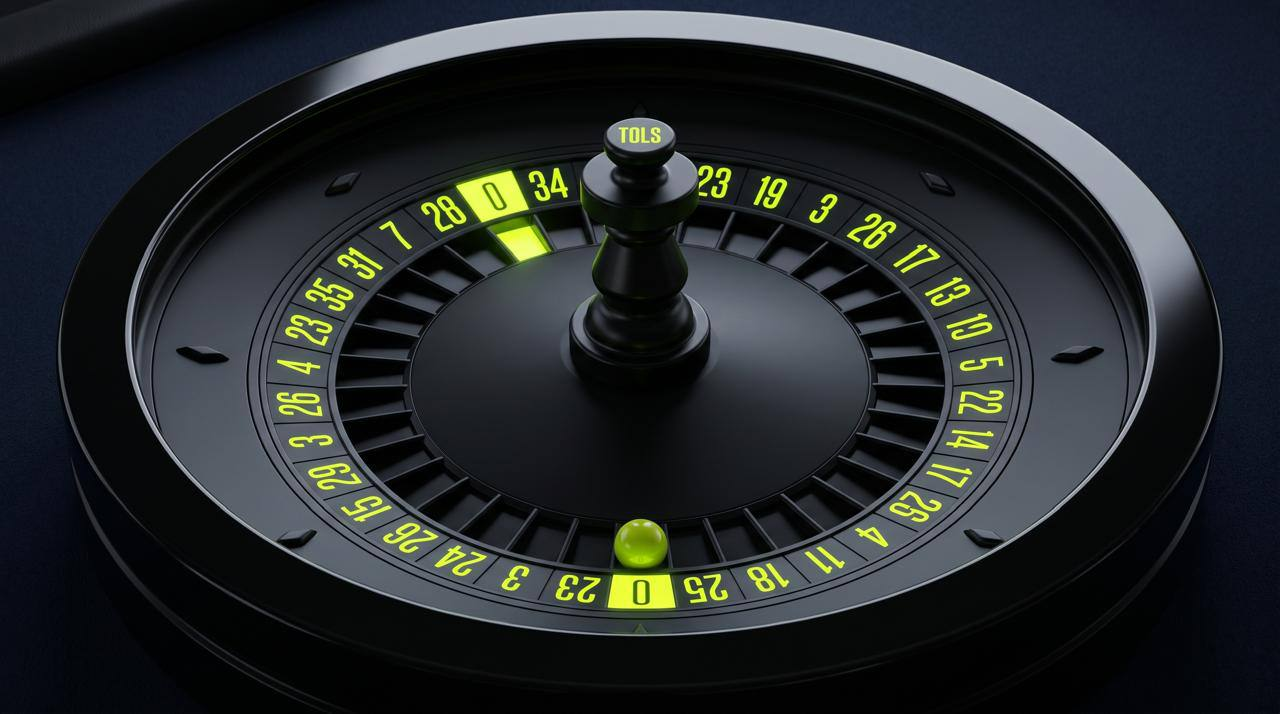
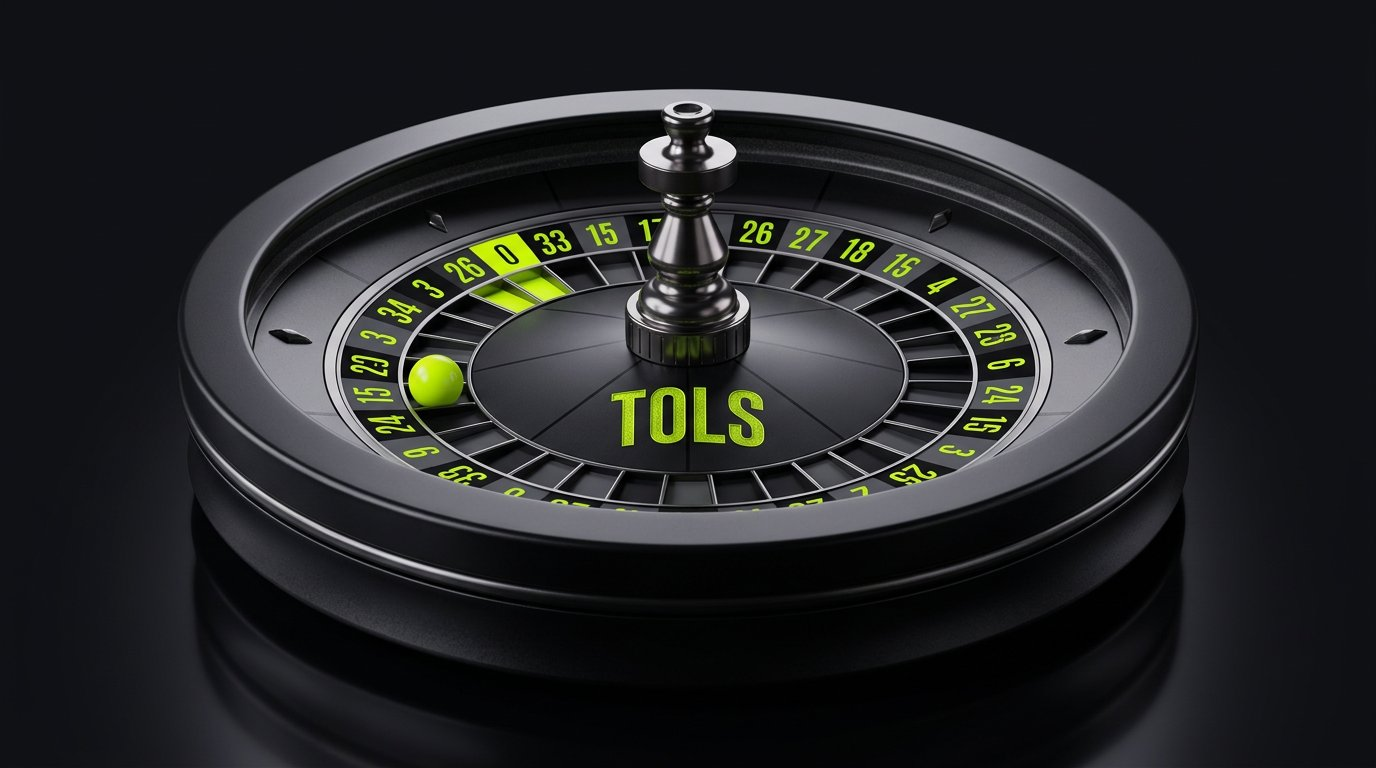
feat(roulette): cinematic tile plus a complete European table
New charcoal/lime TOLS wheel art for the lobby card. In-game: 2:1
columns, Auto Bet follows the chips on the felt, engine accepts both
a bets[] book and a simple color shortcut, hub and ball match the tile.

diff --git a/src/components/casino/game-roulette.tsx b/src/components/casino/game-roulette.tsx
@@ -32,7 +32,7 @@ const WHEEL_ORDER = [
 ];
 
 function numColor(n: number): string {
-  if (n === 0) return '#9bc400';
+  if (n === 0) return '#cdf32b';
   return RED.has(n) ? '#e33b26' : '#141412';
 }
 
@@ -118,6 +118,11 @@ const RouletteWheel = forwardRef<RouletteHandle, unknown>(function RouletteWheel
     ctx.lineWidth = 2;
     ctx.strokeStyle = 'rgba(205,243,43,0.25)';
     ctx.stroke();
+    ctx.fillStyle = '#cdf32b';
+    ctx.font = '800 26px system-ui, sans-serif';
+    ctx.textAlign = 'center';
+    ctx.textBaseline = 'middle';
+    ctx.fillText('TOLS', CX, CY);
 
     // Ball
     const b = ballRef.current;
@@ -126,8 +131,8 @@ const RouletteWheel = forwardRef<RouletteHandle, unknown>(function RouletteWheel
     ctx.beginPath();
     ctx.arc(bx, by, 10, 0, Math.PI * 2);
     const bg = ctx.createRadialGradient(bx - 3, by - 3, 1.5, bx, by, 10);
-    bg.addColorStop(0, '#ffffff');
-    bg.addColorStop(1, '#c8c8c2');
+    bg.addColorStop(0, '#f4ff9a');
+    bg.addColorStop(1, '#cdf32b');
     ctx.fillStyle = bg;
     ctx.shadowColor = 'rgba(0,0,0,0.5)';
     ctx.shadowBlur = 9;
@@ -217,6 +222,11 @@ const DOZENS = [
   { key: 'dozen2', label: '2nd 12', type: 'dozen2' },
   { key: 'dozen3', label: '3rd 12', type: 'dozen3' },
 ];
+const COLUMNS = [
+  { key: 'col3', label: '2:1', type: 'col3' },
+  { key: 'col2', label: '2:1', type: 'col2' },
+  { key: 'col1', label: '2:1', type: 'col1' },
+];
 
 export function RouletteGame({ onBack, initialBalance }: Props) {
   const [chip, setChip] = useState(5);
@@ -226,11 +236,14 @@ export function RouletteGame({ onBack, initialBalance }: Props) {
   const [history, setHistory] = useState<Array<{ winning: number; result: string; payout: number }>>([]);
   const wheelRef = useRef<RouletteHandle | null>(null);
 
-  const totalStaked = Array.from(bets.values()).reduce((s, b) => s + b.amount, 0);
-  const autoColor = Array.from(bets.values()).some((b) => b.type === "black") && !Array.from(bets.values()).some((b) => b.type === "red")
-    ? "black"
-    : "red";
-  const { balance, setBalance } = useOriginalsSession("roulette", { color: autoColor }, totalStaked || chip, initialBalance);
+  const betList = Array.from(bets.values());
+  const totalStaked = betList.reduce((s, b) => s + b.amount, 0);
+  const { balance, setBalance } = useOriginalsSession(
+    "roulette",
+    betList.length ? { bets: betList } : { color: "red" },
+    totalStaked || chip,
+    initialBalance,
+  );
 
   const placeBet = useCallback((type: string, value?: number) => {
     if (spinning) return;
@@ -296,11 +309,11 @@ export function RouletteGame({ onBack, initialBalance }: Props) {
 
           {/* Betting table */}
           <div className="rounded-xl p-3 overflow-x-auto" style={{ background: 'var(--color-surface)', border: '1px solid color-mix(in oklab, var(--color-lime) 8%, transparent)' }}>
-            <div className="flex gap-1 min-w-[520px]">
+            <div className="flex gap-1 min-w-[560px]">
               {/* Zero */}
               <button onClick={() => placeBet('straight', 0)} disabled={spinning}
-                className="relative w-10 rounded-md text-white text-sm font-bold flex items-center justify-center"
-                style={{ background: numColor(0) }}>
+                className="relative w-10 self-stretch rounded-md text-sm font-black flex items-center justify-center"
+                style={{ background: numColor(0), color: '#0f1015' }}>
                 0
                 {chipOn('straight', 0) > 0 && <Chip amount={chipOn('straight', 0)} />}
               </button>
@@ -316,6 +329,17 @@ export function RouletteGame({ onBack, initialBalance }: Props) {
                     </button>
                   )),
                 )}
+              </div>
+              {/* 2:1 columns — engine types col3 / col2 / col1 match the three table rows */}
+              <div className="grid grid-rows-3 gap-1 w-12 shrink-0">
+                {COLUMNS.map((c) => (
+                  <button key={c.key} onClick={() => placeBet(c.type)} disabled={spinning}
+                    className="relative rounded-md text-[10px] font-black text-white/80 flex items-center justify-center"
+                    style={{ background: 'rgba(255,255,255,0.05)', border: '1px solid rgba(255,255,255,0.08)' }}>
+                    {c.label}
+                    {chipOn(c.type) > 0 && <Chip amount={chipOn(c.type)} />}
+                  </button>
+                ))}
               </div>
             </div>
             {/* Dozens */}
@@ -357,10 +381,16 @@ export function RouletteGame({ onBack, initialBalance }: Props) {
             <div className="grid grid-cols-5 gap-1.5">
               {CHIPS.map((c) => (
                 <button key={c} onClick={() => setChip(c)}
-                  className="py-2 rounded-lg text-[11px] font-bold transition-all"
-                  style={chip === c
-                    ? { background: 'color-mix(in oklab, var(--color-lime) 15%, transparent)', color: 'var(--color-lime)', border: '1px solid color-mix(in oklab, var(--color-lime) 30%, transparent)' }
-                    : { background: 'rgba(255,255,255,0.04)', color: 'rgba(255,255,255,0.45)', border: '1px solid rgba(255,255,255,0.06)' }}>
+                  className="aspect-square rounded-full text-[10px] font-black transition-all"
+                  style={{
+                    backgroundImage: 'url(/games/props/chip-heads.jpg)',
+                    backgroundSize: 'cover',
+                    color: chip === c ? 'var(--color-lime)' : 'rgba(255,255,255,0.7)',
+                    opacity: chip === c ? 1 : 0.5,
+                    boxShadow: chip === c ? '0 0 14px color-mix(in oklab, var(--color-lime) 40%, transparent)' : 'none',
+                    border: chip === c ? '2px solid var(--color-lime)' : '2px solid transparent',
+                    textShadow: '0 1px 3px #000',
+                  }}>
                   ${c}
                 </button>
               ))}

diff --git a/src/lib/game-engines/instant.ts b/src/lib/game-engines/instant.ts
@@ -2,7 +2,7 @@ import { fairFloat } from "@/lib/provably-fair";
 import type { GameEngine } from "@/shared/types";
 import { KENO_DRAWS, KENO_MAX_PICKS, KENO_POOL, KENO_RISKS, PLINKO_ROWS, WHEEL_SEGMENTS } from "@/shared/constants";
 import { KENO_TABLES, PLINKO_TABLES, POOL_RUSH_CDF, POOL_RUSH_PAY, ROULETTE_RED, SLOT_P, SLOT_PAY, WHEEL_TABLES } from "./tables";
-import { isRisk, okAmount, paid } from "./common";
+import { isRisk, normalizeRouletteBets, okAmount, paid } from "./common";
 
 export const diceEngine: GameEngine = {
   id: "dice",
@@ -260,19 +260,17 @@ export const rouletteEngine: GameEngine = {
   validateBet(params, balance, amount) {
     const base = okAmount(amount, balance);
     if (!base.valid) return base;
-    const bets = Array.isArray(params.bets) ? (params.bets as Array<{ amount: number }>) : [];
-    const staked = bets.reduce((s, b) => s + (Number(b.amount) || 0), 0);
+    const bets = normalizeRouletteBets(params, amount);
+    const staked = bets.reduce((s, b) => s + b.amount, 0);
     if (bets.length === 0) return { valid: false, error: "Place at least one chip" };
-    if (Math.abs(staked - amount) > 1e-6) return { valid: false, error: "Bet total mismatch" };
+    if (Math.abs(staked - amount) > 0.05) return { valid: false, error: "Bet total mismatch" };
     return { valid: true };
   },
   generateOutcome(serverSeed, clientSeed, nonce) {
     return { winning: Math.floor(fairFloat(serverSeed, clientSeed, nonce) * 37) };
   },
   settleBet(bet, outcome) {
-    const bets = Array.isArray(bet.params.bets)
-      ? (bet.params.bets as Array<{ type: string; value?: number; amount: number }>)
-      : [];
+    const bets = normalizeRouletteBets(bet.params, bet.amount);
     const winning = Number(outcome.winning);
     const isRed = winning !== 0 && ROULETTE_RED.has(winning);
     let totalPayout = 0;

diff --git a/src/lib/auto-bet.ts b/src/lib/auto-bet.ts
@@ -161,8 +161,24 @@ export async function tickAutoBet(userId: string, gameId: string): Promise<{
   try {
     const gameParams: Record<string, unknown> = { ...params.gameParams, autoBetId: row.id };
     if (gameId === "roulette") {
-      const kind = String(gameParams.color ?? "red");
-      gameParams.bets = [{ type: kind === "black" ? "black" : "red", amount: row.currentBet }];
+      const raw = Array.isArray(gameParams.bets)
+        ? (gameParams.bets as Array<{ type: string; value?: number; amount: number }>)
+        : [];
+      const staked = raw.reduce((s, b) => s + (Number(b.amount) || 0), 0);
+      if (staked > 0) {
+        const scale = row.currentBet / staked;
+        let mapped = raw.map((b) => ({
+          ...b,
+          amount: Math.round(Number(b.amount) * scale * 100) / 100,
+        }));
+        const sum = mapped.reduce((s, b) => s + b.amount, 0);
+        const drift = Math.round((row.currentBet - sum) * 100) / 100;
+        if (mapped.length && drift !== 0) mapped[0] = { ...mapped[0], amount: mapped[0].amount + drift };
+        gameParams.bets = mapped;
+      } else {
+        const kind = String(gameParams.color ?? "red");
+        gameParams.bets = [{ type: kind === "black" ? "black" : "red", amount: row.currentBet }];
+      }
     }
     if (gameId === "keno" && !Array.isArray(gameParams.picks)) {
       gameParams.picks = [1, 2, 3, 4, 5];

diff --git a/src/lib/game-engines/common.ts b/src/lib/game-engines/common.ts
@@ -17,6 +17,29 @@ export function isRisk(value: unknown): value is (typeof RISK_LEVELS)[number] {
   return typeof value === "string" && (RISK_LEVELS as readonly string[]).includes(value);
 }
 
+export type RouletteChip = { type: string; value?: number; amount: number };
+
+const ROULETTE_TYPES = new Set([
+  "straight", "red", "black", "odd", "even", "low", "high",
+  "dozen1", "dozen2", "dozen3", "col1", "col2", "col3",
+]);
+
+/** UI sends `{ bets }`; Auto Bet may send `{ color: "red" }` — both become chips. */
+export function normalizeRouletteBets(params: Record<string, unknown>, amount: number): RouletteChip[] {
+  if (Array.isArray(params.bets) && params.bets.length) {
+    return (params.bets as RouletteChip[])
+      .map((b) => ({
+        type: String(b.type),
+        value: typeof b.value === "number" ? b.value : undefined,
+        amount: Number(b.amount) || 0,
+      }))
+      .filter((b) => b.amount > 0 && ROULETTE_TYPES.has(b.type));
+  }
+  const raw = String(params.color ?? params.type ?? "red");
+  const type = ROULETTE_TYPES.has(raw) && raw !== "straight" ? raw : "red";
+  return [{ type, amount }];
+}
+
 export function betResultTag(result: {
   won: boolean;
   multiplier: number;
